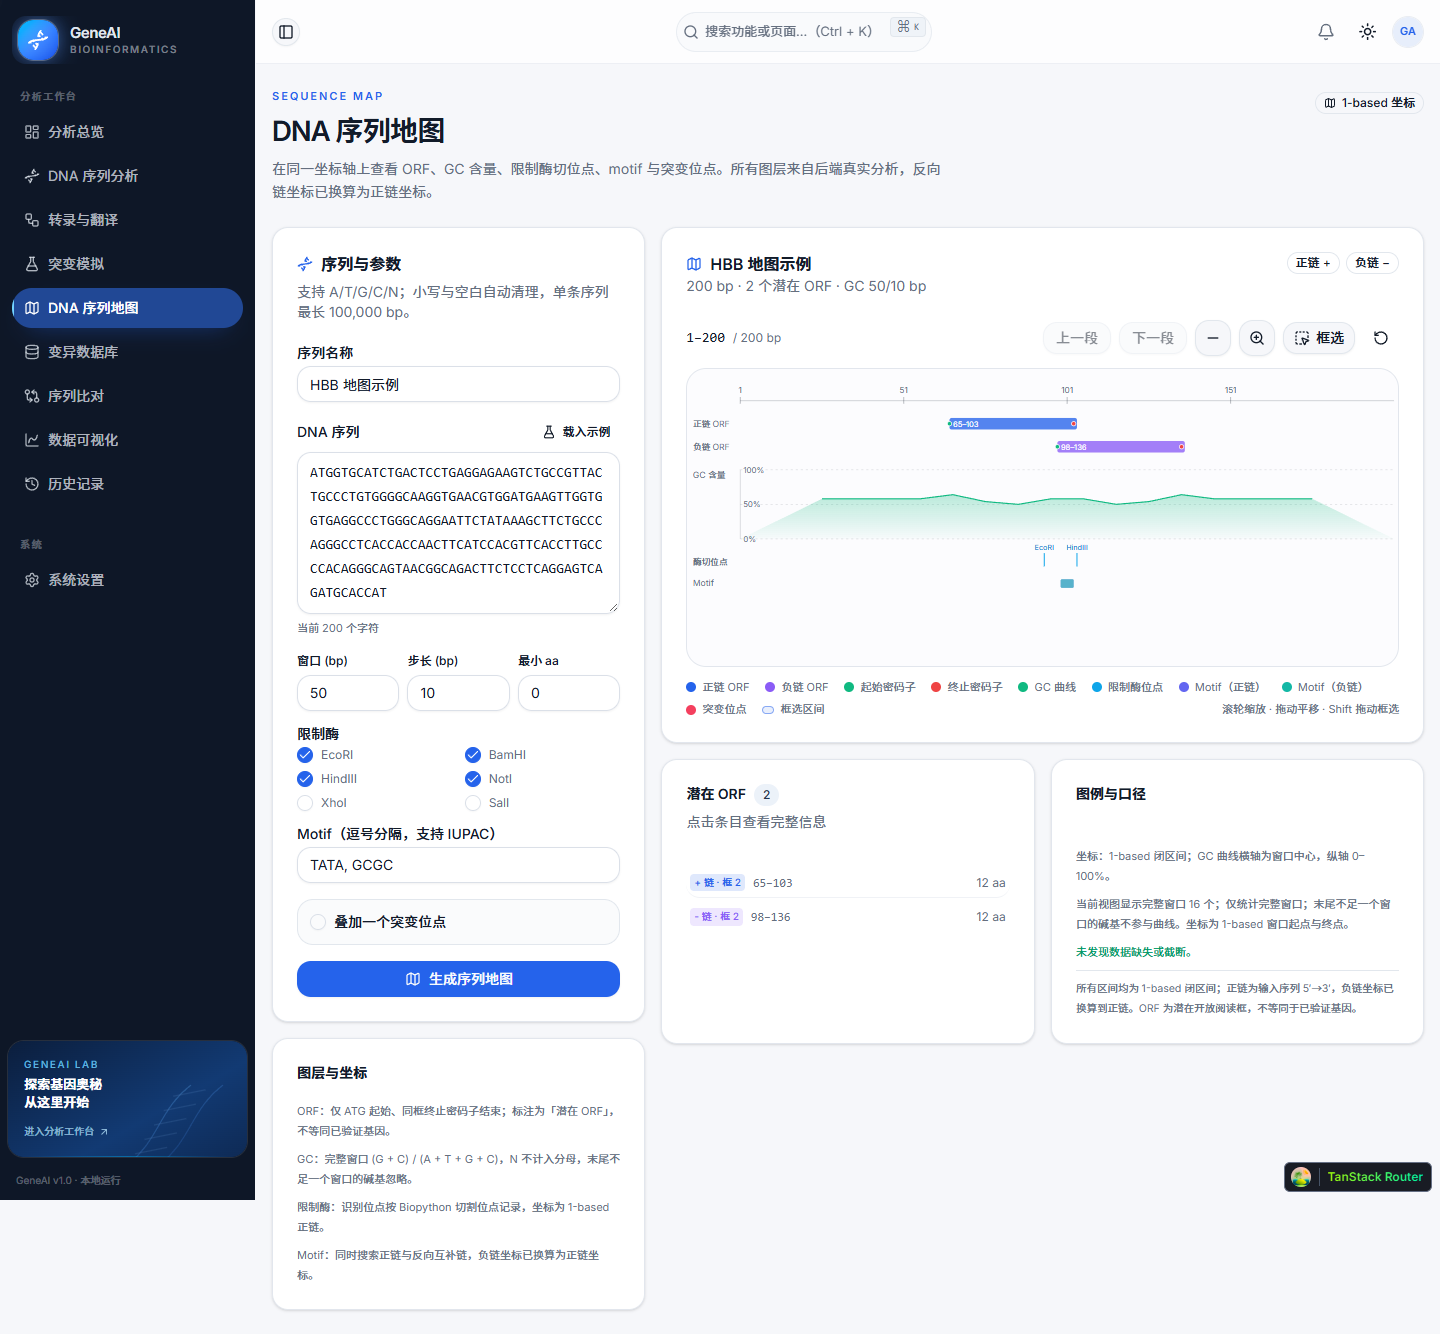
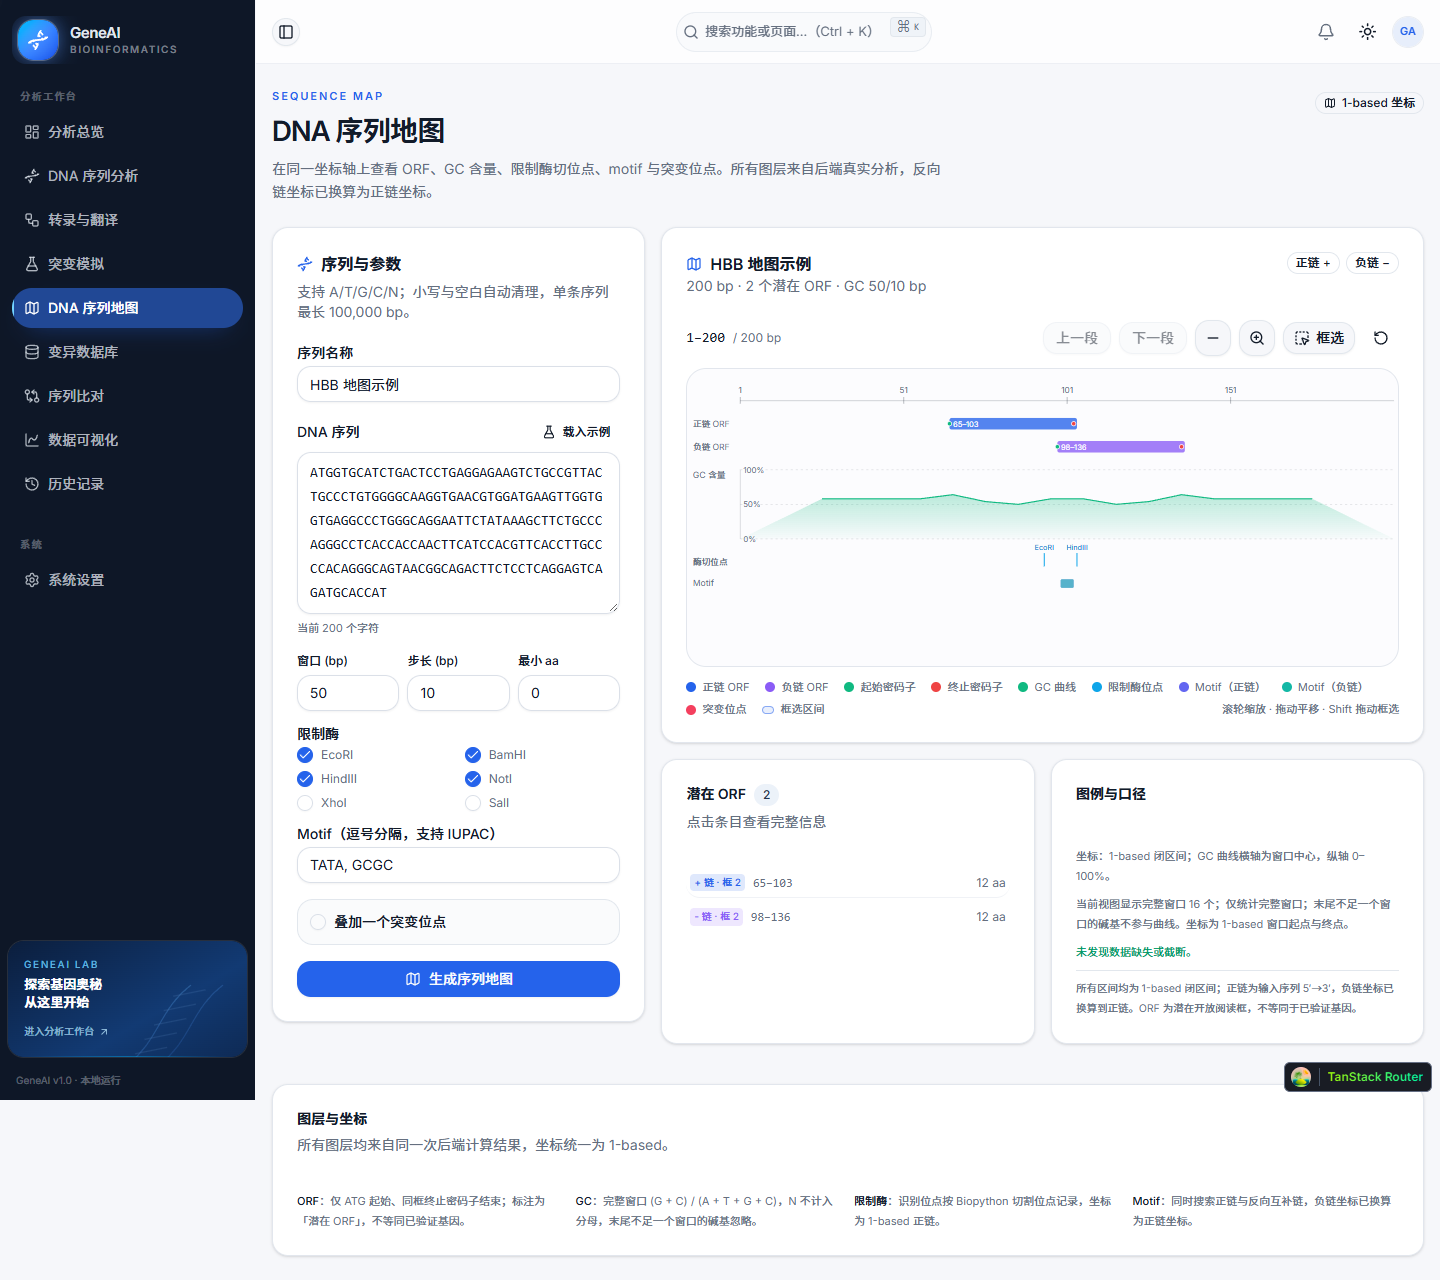
polish(ui): unify layout, fix skip link and mobile result scrolling

diff --git a/src/features/map/index.tsx b/src/features/map/index.tsx
@@ -371,26 +371,6 @@ export function SequenceMapPage() {
                 </Button>
               </CardContent>
             </Card>
-
-            <Card className='hidden sm:block'>
-              <CardHeader className='pb-3'>
-                <CardTitle className='text-sm'>图层与坐标</CardTitle>
-              </CardHeader>
-              <CardContent className='space-y-2 text-[11px] leading-5 text-muted-foreground'>
-                <p>
-                  ORF：仅 ATG 起始、同框终止密码子结束；标注为「潜在 ORF」，不等同已验证基因。
-                </p>
-                <p>
-                  GC：完整窗口 (G + C) / (A + T + G + C)，N 不计入分母，末尾不足一个窗口的碱基忽略。
-                </p>
-                <p>
-                  限制酶：识别位点按 Biopython 切割位点记录，坐标为 1-based 正链。
-                </p>
-                <p>
-                  Motif：同时搜索正链与反向互补链，负链坐标已换算为正链坐标。
-                </p>
-              </CardContent>
-            </Card>
           </div>
 
           <div className='min-w-0 space-y-4 xl:col-span-8'>
@@ -529,6 +509,33 @@ export function SequenceMapPage() {
             ) : null}
           </div>
         </div>
+
+        <Card className='mt-4'>
+          <CardHeader className='pb-3'>
+            <CardTitle className='text-sm'>图层与坐标</CardTitle>
+            <CardDescription>
+              所有图层均来自同一次后端计算结果，坐标统一为 1-based。
+            </CardDescription>
+          </CardHeader>
+          <CardContent className='grid gap-3 text-[11px] leading-5 text-muted-foreground sm:grid-cols-2 xl:grid-cols-4'>
+            <p>
+              <span className='font-medium text-foreground'>ORF</span>
+              ：仅 ATG 起始、同框终止密码子结束；标注为「潜在 ORF」，不等同已验证基因。
+            </p>
+            <p>
+              <span className='font-medium text-foreground'>GC</span>
+              ：完整窗口 (G + C) / (A + T + G + C)，N 不计入分母，末尾不足一个窗口的碱基忽略。
+            </p>
+            <p>
+              <span className='font-medium text-foreground'>限制酶</span>
+              ：识别位点按 Biopython 切割位点记录，坐标为 1-based 正链。
+            </p>
+            <p>
+              <span className='font-medium text-foreground'>Motif</span>
+              ：同时搜索正链与反向互补链，负链坐标已换算为正链坐标。
+            </p>
+          </CardContent>
+        </Card>
       </Main>
 
       <Dialog

diff --git a/src/features/mutation/index.tsx b/src/features/mutation/index.tsx
@@ -202,6 +202,13 @@ export function MutationSimulationPage() {
       })
       setResult(data)
       toast.success(`突变分析完成：${data.label}`)
+      if (window.innerWidth < 1280) {
+        window.setTimeout(() => {
+          document
+            .getElementById('mutation-results')
+            ?.scrollIntoView({ behavior: 'smooth', block: 'start' })
+        }, 150)
+      }
     } catch (cause) {
       const message =
         cause instanceof ApiError ? cause.message : '突变分析失败，请稍后再试。'
@@ -566,7 +573,10 @@ export function MutationSimulationPage() {
             </Card>
           </div>
 
-          <div className='min-w-0 space-y-4 xl:col-span-7'>
+          <div
+            id='mutation-results'
+            className='min-w-0 scroll-mt-20 space-y-4 xl:col-span-7'
+          >
             {loading ? (
               <Card className='py-0 shadow-card'>
                 <CardContent className='p-5'>

diff --git a/src/components/skip-to-main.tsx b/src/components/skip-to-main.tsx
@@ -1,10 +1,10 @@
 export function SkipToMain() {
   return (
     <a
-      className={`fixed inset-s-44 z-999 -translate-y-52 bg-primary px-4 py-2 text-sm font-medium whitespace-nowrap text-primary-foreground opacity-95 shadow-sm transition hover:bg-primary/90 focus:translate-y-3 focus:transform focus-visible:ring-1 focus-visible:ring-ring`}
+      className={`fixed inset-s-44 z-999 -translate-y-52 bg-primary px-4 py-2 text-sm font-medium whitespace-nowrap text-primary-foreground opacity-95 shadow-sm transition hover:bg-primary/90 focus-visible:translate-y-3 focus-visible:transform focus-visible:ring-1 focus-visible:ring-ring`}
       href='#content'
     >
-      Skip to Main
+      跳到主内容
     </a>
   )
 }

diff --git a/docs/UI_POLISH_REPORT.md b/docs/UI_POLISH_REPORT.md
@@ -1,0 +1,126 @@
+# GeneAI 2.0 全站 UI 精修与整合报告
+
+> 阶段：GeneAI 2.0 第六阶段（提示词 7）
+> 范围：全部 10 个页面 × 桌面 / 平板 / 手机三档
+> 日期：2026-11-06
+
+## 1. 目标与方法
+
+本阶段不新增业务模块，集中解决：
+
+- 视觉不统一：标题层级、卡片、按钮、表单、空/错/载入状态。
+- 重点页面表现：转录翻译、突变对照、ClinVar 证据、DNA 地图。
+- 响应式：1440 / 834 / 390 三档无横向溢出。
+- 交互与数据：按钮可用、表单校验、真实 API、无控制台错误。
+
+方法：使用 Playwright 对 10 个页面在三档视口逐页截图，收集 `console.error`、`pageerror`、HTTP ≥ 500 响应和 `scrollWidth`，再对重点页面执行操作（转录播放、突变预设、ClinVar 查询、地图缩放）。
+
+## 2. 全站统一项
+
+| 项目 | 处理 |
+| --- | --- |
+| 侧边栏 | 深海军蓝固定侧栏，统一图标、10px 分组标题、圆角高亮与选中指示条 |
+| 顶栏 | 居中搜索、通知、主题、本地工作区头像；移动端保留搜索入口 |
+| 页面标题 | 全部使用 `PageHeader`：eyebrow + 24px 标题 + 说明；设置页也改为同一组件 |
+| 卡片 | 统一 `rounded-2xl`、1px 边框、柔和阴影、16–20px 内边距 |
+| 按钮 | 主按钮蓝色、次按钮描边、危险操作红色；统一 36/40px 高度与图标尺寸 |
+| 表单 | 统一 Label + 36px 输入框 + 说明文字；错误红框与错误文案 |
+| 表格 | 统一表头浅灰底、行 hover、移动端隐藏次要列 |
+| 图表 | ECharts 同色板（A 蓝 / T 紫 / C 绿 / G 琥珀）、统一 tooltip 与网格 |
+| 空 / 错 / 载入 | `EmptyState` / `ErrorState` / `LoadingState` 三件套覆盖所有数据页 |
+| 圆角与色板 | `--radius: 1rem`；主色 `#2563EB`、青绿 `#10B981`、紫 `#8B5CF6`、琥珀 `#F59E0B` |
+
+## 3. 逐页优化对照
+
+| 页面 | 优化前问题 | 优化后 |
+| --- | --- | --- |
+| Dashboard | 趋势横轴三条记录同分钟显示相同时间；移动端 4 张统计卡单列过高；平板三张图单列留白 | 横轴改序列名、tooltip 显示完整时间；移动端 2×2 统计；平板两图并排、趋势通栏 |
+| DNA 序列分析 | 左栏输入卡短、右栏结果卡长，底部空白；计算说明独立在网格外 | 说明卡进入左栏栅格，结果卡跨两行，左右基本齐平 |
+| 序列比对 | 移动端 6 张指标卡单列堆叠过长；底部两卡被拉伸等高 | 指标卡 2×3；底部 `items-start`，差异表不再被拉高 |
+| 数据可视化 | 平板下拉框被挤成小圆点；GC/AT 0% 标签被裁；x 轴末尾重叠 | 工具栏改 grid；<8% 隐藏内标签；坐标轴 `hideOverlap` |
+| 历史记录 | 移动端日期框无标签、刷新独占一行、清除按钮居中拉伸 | 增加「开始/结束」标签；刷新与标题同行；按钮左对齐 |
+| 系统设置 | 标题 30px 与其他页不一致；右侧表单窄、页面空旷 | 改用 PageHeader；右侧内容放入限宽卡片，层级清晰 |
+| 转录与翻译 | 播放控件在长页顶部，滚动动画时不可见；移动端碱基行被裁 | 桌面控制栏 sticky；移动端固定控制条（上一步/播放/下一步/重播/速度）；碱基行自动居中滚动 |
+| 基因突变模拟 | 移动端表单长，结果在 1400px 以下；类型说明插在中间 | 成功后在 <1280px 自动滚动到结果；说明卡保留在桌面 |
+| 变异数据库 | 平板工具栏挤压输入框；列表单列过长 | 工具栏平板通栏重排；桌面两列卡片；表型 not provided → 未提供 |
+| DNA 序列地图 | 图层说明卡在左栏造成左右不平衡；移动端地图过小 | 说明卡移到全宽底部 4 栏；地图最小宽度 + 横向滚动提示；y 轴标签移入绘图区 |
+
+## 4. 重点页面
+
+### 转录与翻译
+
+- 双螺旋、转录、翻译按「输入 → 转录 → 翻译 → 结论」纵向排列，动画是主视觉。
+- 播放器在桌面右栏 sticky，滚动时始终可见；移动端固定底栏，包含步数、进度、上一步/播放/下一步/重播/速度。
+- 转录碱基行自动滚动并居中当前碱基；`Toaster` 移动端底部偏移 96px，避免遮挡控制条。
+- 所有碱基、密码子、氨基酸来自 `/api/transcribe`、`/api/translate`，动画不自行编造。
+
+### 基因突变模拟
+
+- 左侧「原始序列 + 突变操作」，右侧「结果 + DNA 差异 + 转录对比 + 蛋白对比 + 报告」。
+- DNA 差异原始链红色、突变链绿色；蛋白差异灰（不变）/琥珀（替换）/绿（新增）/红（缺失）/深红（终止）。
+- 移动端提交后自动滚动到结果，避免用户长距离寻找。
+
+### 变异数据库
+
+- 查询卡、免责横幅、结果卡片、详情弹窗形成固定层级。
+- 临床意义颜色：致病红、可能致病橙、VUS 琥珀、可能良性 / 良性绿；审查状态中文化。
+- 显式显示来源、查询时间、缺失字段、原始链接；纯 DNA 查询给出「无法可靠匹配」的明确解释。
+
+### DNA 序列地图
+
+- 独立轨道：刻度、正/负链 ORF、GC 曲线、限制酶、motif、突变，避免挤在一条线上。
+- ORF 起止点绿/红圆点；点击 ORF 或突变打开详情；滚轮缩放、拖动平移、Shift 框选。
+- 说明卡移到页面底部全宽四栏，桌面左右栏高度基本一致；移动端地图横向滚动并给出提示。
+
+## 5. 响应式测试
+
+| 视口 | 页面数 | 横向溢出 | 控制台错误 | HTTP ≥ 500 |
+| --- | --- | --- | --- | --- |
+| 1440 × 1100 | 10 | 0 | 0 | 0 |
+| 834 × 1100 | 10 | 0 | 0 | 0 |
+| 390 × 844 | 10 | 0 | 0 | 0 |
+
+移动端专项：
+
+- 侧栏折叠为抽屉，导航可正常打开/关闭。
+- 表格隐藏长度/AT/时间等次要列。
+- 地图、转录碱基行使用局部横向滚动，页面本身不溢出。
+- 所有弹窗宽度不超过视口，关闭按钮可点击。
+
+## 6. 交互验证
+
+| 项目 | 结果 |
+| --- | --- |
+| 侧栏 10 个路由跳转 | 通过 |
+| 转录：开始/暂停/下一步/上一步/重播/速度 | 通过（步骤与后端结果一致） |
+| 突变：6 个教学预设 | 通过（同义/错义/无义/移码/整码插入/整码缺失） |
+| 突变：非法位置 / 模板链 | 通过（错误提示、同义结果正确） |
+| ClinVar：BRCA1 / rs80357906 / VCV ID | 通过（真实返回；二次查询命中缓存） |
+| ClinVar：纯 DNA 输入 | 通过（400 + 明确说明，无重试按钮） |
+| 地图：缩放/平移/框选/ORF 弹窗/突变弹窗 | 通过 |
+| 历史：搜索/日期/分页/详情/删除确认/PDF | 通过（既有 E2E 与手工验证） |
+| 分析：校验/示例/保存/FASTA 上传 | 通过 |
+| 主题切换 / 深色模式 | 通过（cookie 持久化） |
+
+## 7. 构建与自动化测试
+
+| 命令 | 结果 |
+| --- | --- |
+| `pnpm build` | ✅ `built in 2.14s` |
+| `pnpm lint` | ✅ 0 error / 1 warning（`data-table.tsx` useReactTable，既有） |
+| `pnpm test:unit` | ✅ 29 passed |
+| `cd server && pytest tests -q` | ✅ 159 passed（1 warning，Starlette/httpx 弃用） |
+
+## 8. 已知问题
+
+1. ECharts 与主包体积较大（echart 575 kB、chunk 475 kB），未做进一步拆包。
+2. 转录/翻译页在移动端较长，控制条会覆盖视口底部内容，需要留出 `pb-28` 滚动空间。
+3. 地图在手机上需要横向滑动，未实现双指缩放。
+4. ClinVar 依赖外网与 NCBI 限流；缓存为进程内 10 分钟。
+5. 开发态 TanStack Router 浮钮会出现在截图右下角，生产构建不存在。
+6. 分析页在未产生结果时右栏仍有留白，这是空状态而非布局错误。
+
+## 9. 证据文件
+
+- 三档截图：`docs/audit-v2/{page}-{desktop,tablet,mobile}.png`（10 页 × 3）。
+- 重点页面截图：`docs/screenshots/ui-{dashboard,analysis,compare,visualization,history,settings,transcription,mutation,variants,map}-*.png`。
